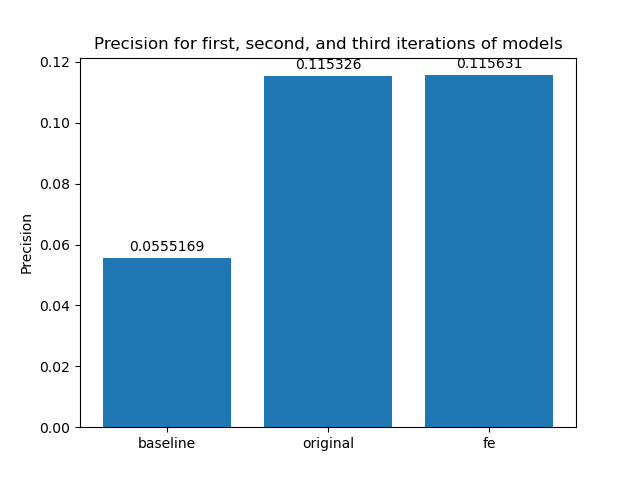
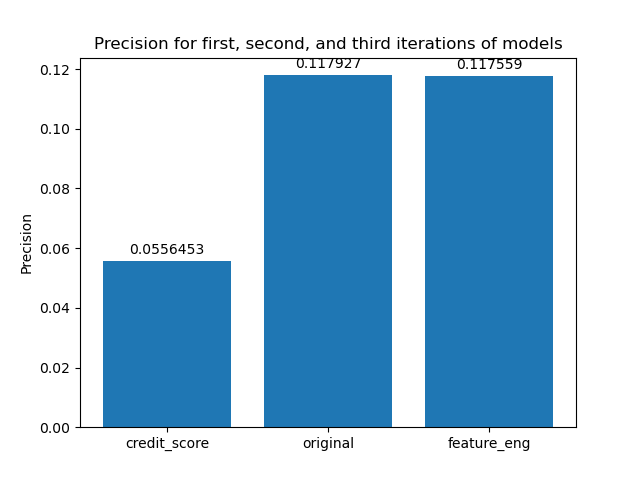
changed back -- now models only run using parquet loading

diff --git a/src/risknet/run/main.py b/src/risknet/run/main.py
@@ -1,38 +1,56 @@
 import matplotlib.pyplot as plt
 import time
 from risknet.run import pipeline
-import os
+import seaborn as sns
 
 start = time.time()
 
+'''Define how to get AUC, PR, and Times from pipeline.pipeline() output'''
+def auc(models):
+    values = []
+    for model in models:
+        values.append(model[0][2])
+    return values
+
+def pr(models):
+    values = []
+    for model in models:
+        values.append(model[1][2])
+    return values
+
+def times(models):
+    values = []
+    for model in models:
+        values.append(model[3])
+    return values
+
 #pipeline.py returns auc, pr, recall, time
 '''
-Generate:
-- Credit score model (cs): The only feature is credit score. Pandas loading uses first 10M records.
-- Original Gangster model (OG): the legacy code from Rod's project. Pandas loading uses first 10M records.
-- Parquet boost (p_boost): OG + using parquet data loading. Parquet uses the entire data file
-- All optimizations added (all_in): OG + parquet + feature engineering. Parquet uses the entire data file
+Iterate to generate:
+- Credit score model (cs): The only feature is credit score
+- Original Gangster model (OG): the legacy code from Rod's project
+- All optimizations added (all_in): OG + parquet + feature engineering
 '''
-cs = pipeline.pipeline(fe_enabled=False, baseline=True, p_true=False) #No FE, only feature is credit score, no parquet
-og = pipeline.pipeline(fe_enabled=False, baseline=False, p_true=False) #Legacy code from Rod, no parquet
-p_boost = pipeline.pipeline(fe_enabled=False, baseline=False, p_true=True) #OG + parquet
-all_in = pipeline.pipeline(fe_enabled=True, baseline=False) #Using FE features + original Freddie Mac features
+#Currently loading all with parquet
+cs = pipeline.pipeline(fe_enabled=False, baseline=True, p_true=True)
+og = pipeline.pipeline(fe_enabled=False, baseline=False, p_true=True)
+all_in = pipeline.pipeline(fe_enabled=True, baseline=False, p_true=True)
 
-auc = [cs[0][2], og[0][2], all_in[0][2]]
-pr = [cs[1][2], og[1][2], all_in[1][2]]
-times = [cs[3], og[3], all_in[3]]
+models_used = [cs, og, all_in]
+order = ['credit_score', 'original', 'feature_eng']
+
+aucs = auc(models_used)
+prs = pr(models_used)
+ts = times(models_used)
 
 end = time.time()
 elapsed = end - start
 
-print("Time to run all 3 models and plot: " + str(round((elapsed / 60), 2)) + "minutes")
-#About 25 minutes to run all 3 models
-
-print(order)
-print(auc)
+print("Time to run all 3 models and plot: " + str(round((elapsed / 60), 2)) + " minutes")
+#About 25 minutes to run 3 models
 
 fig, ax = plt.subplots()
-rects = ax.bar(order, auc)
+rects = ax.bar(order, aucs)
 ax.bar_label(rects, padding=3)
 ax.set_ylabel("AUC")
 ax.set_title("AUC for first, second, and third iterations of models")
@@ -40,7 +58,7 @@ plt.savefig('graphs/aucs.png')
 plt.show()
 
 fig, ax = plt.subplots()
-rects = ax.bar(order, pr)
+rects = ax.bar(order, prs)
 ax.bar_label(rects, padding=3)
 ax.set_ylabel("Precision")
 ax.set_title("Precision for first, second, and third iterations of models")
@@ -48,7 +66,7 @@ plt.savefig('graphs/prs.png')
 plt.show()
 
 fig, ax = plt.subplots()
-rects = ax.bar(order, times)
+rects = ax.bar(order, ts)
 ax.set_ylabel("Time")
 ax.set_title("Time to train for first, second, and third iterations of models")
 plt.savefig('graphs/time.png')

diff --git a/src/risknet/run/pipeline.py b/src/risknet/run/pipeline.py
@@ -62,11 +62,13 @@ def pipeline(fe_enabled=True, baseline=False, p_true=True):
     #parquet.parquet_convert('historical_data_time_2009Q1.txt','historical_data_2009Q1.txt', fm_root)
 
     #Step 1: Label Processing: Returns dev_labels.pkl and dev_reg_labels.pkl
+    if not p_true:
+        data = [('historical_data_time_2009Q1.txt','historical_data_2009Q1.txt')]
     label_prep.label_proc(fm_root, data, p_true)
 
-
     #Step 2: Reducer: Returns df of combined data to encode
-    df = reducer.reduce(fm_root, data[0]) 
+    df = reducer.reduce(fm_root, data[0])
+    print(df.shape[0])
     #As of right now, we are only pulling 2009 data. So we only need data[0].
 
     #However, if we want to add 2014 data in the future, we can add another Tuple(str,str,str) to the List data
